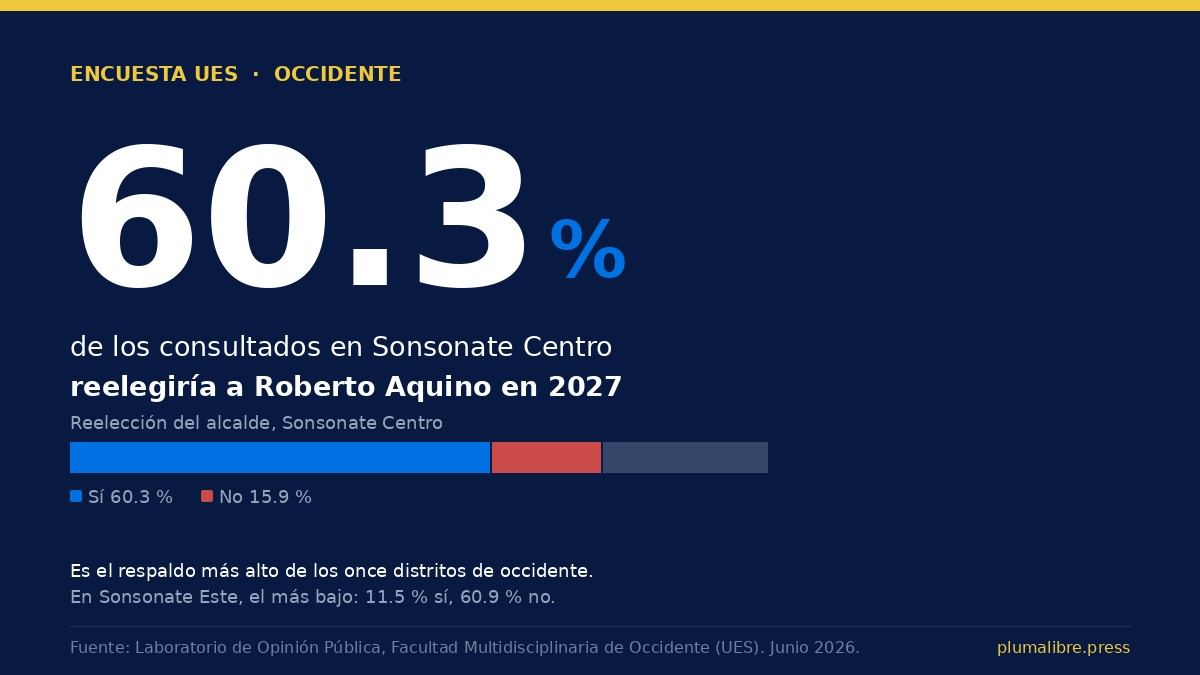
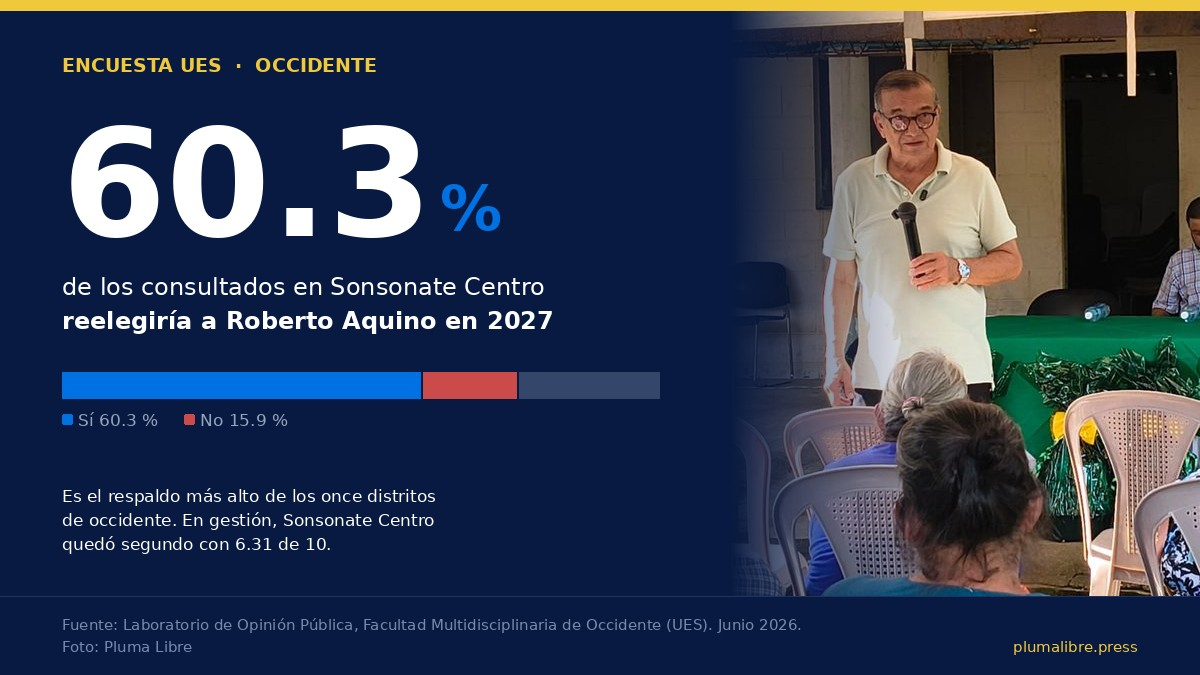
Encuesta UES: portada con foto del alcalde Aquino junto al dato de reeleccion

diff --git a/articulos/encuesta-ues-califica-alcaldes-occidente-junio-2026.html b/articulos/encuesta-ues-califica-alcaldes-occidente-junio-2026.html
@@ -1,4 +1,4 @@
-<!DOCTYPE html><html lang="es"><head><meta charset="UTF-8"><meta name="viewport" content="width=device-width,initial-scale=1.0"><title>6 de cada 10 en Sonsonate Centro reelegirían a Aquino, según la UES — Pluma Libre</title><meta name="description" content="La Universidad de El Salvador midió a los once alcaldes de occidente. Sonsonate Centro salió segundo en gestión con 6.31 y primero en respaldo a la reelección. Los otros tres distritos sonsonatecos quedaron debajo del promedio regional."><meta name="theme-color" content="#081A41"><link rel="canonical" href="https://plumalibre.press/articulos/encuesta-ues-califica-alcaldes-occidente-junio-2026.html"><meta property="og:type" content="article"><meta property="og:title" content="6 de cada 10 en Sonsonate Centro reelegirían a Aquino, según la UES"><meta property="og:description" content="La Universidad de El Salvador midió a los once alcaldes de occidente. Sonsonate Centro salió segundo en gestión con 6.31 y primero en respaldo a la reelección. Los otros tres distritos sonsonatecos quedaron debajo del promedio regional."><meta property="og:image" content="https://plumalibre.press/assets/nota-encuesta-ues-reeleccion-sonsonate-centro.jpg"><meta property="og:site_name" content="Pluma Libre"><meta property="article:published_time" content="2026-08-03"><script type="application/ld+json">{"@context":"https://schema.org","@type":"NewsArticle","headline":"6 de cada 10 en Sonsonate Centro reelegirían a Aquino, según la UES","datePublished":"2026-08-03","author":{"@type":"Organization","name":"Pluma Libre"},"publisher":{"@type":"Organization","name":"Pluma Libre","logo":{"@type":"ImageObject","url":"https://plumalibre.press/assets/logo-simbolo.png"}}}</script><script>(function(){try{var p=new URLSearchParams(location.search);if(p.get("pl_no_track")==="1"){localStorage.setItem("pl_no_track","1");history.replaceState({},"",location.pathname+location.hash);}if(p.get("pl_track")==="1"){localStorage.removeItem("pl_no_track");history.replaceState({},"",location.pathname+location.hash);}if(localStorage.getItem("pl_no_track")==="1"){window["ga-disable-G-TZRTJLP5KT"]=true;}}catch(e){}})();</script><script async src="https://www.googletagmanager.com/gtag/js?id=G-TZRTJLP5KT"></script><script>window.dataLayer=window.dataLayer||[];function gtag(){dataLayer.push(arguments);}gtag("js",new Date());gtag("config","G-TZRTJLP5KT");</script><link rel="icon" href="../assets/favicon.ico" sizes="any"><link rel="icon" type="image/png" sizes="32x32" href="../assets/favicon-32x32.png"><link rel="icon" type="image/png" sizes="192x192" href="../assets/favicon-192x192.png"><link rel="apple-touch-icon" href="../assets/apple-touch-icon.png"><link rel="alternate" type="application/rss+xml" title="Pluma Libre" href="/rss.xml"><link rel="manifest" href="/manifest.webmanifest"><meta name="apple-mobile-web-app-capable" content="yes"><meta name="apple-mobile-web-app-status-bar-style" content="black-translucent"><meta name="apple-mobile-web-app-title" content="Pluma Libre"><meta name="mobile-web-app-capable" content="yes"><link rel="preconnect" href="https://fonts.googleapis.com"><link rel="preconnect" href="https://fonts.gstatic.com" crossorigin><link href="https://fonts.googleapis.com/css2?family=Newsreader:opsz,wght@6..72,400;6..72,600;6..72,700&family=Outfit:wght@400;500;600;700&display=swap" rel="stylesheet"><link rel="stylesheet" href="../style.css"></head><body class="article-page"><div class="top-bar"><div class="wrap"><span id="fecha"></span><a href="https://www.facebook.com/plumalibre.press/" target="_blank" rel="noopener" aria-label="Facebook"><svg width="14" height="14" fill="currentColor" viewBox="0 0 24 24"><path d="M24 12.073c0-6.627-5.373-12-12-12s-12 5.373-12 12c0 5.99 4.388 10.954 10.125 11.854v-8.385H7.078v-3.47h3.047V9.43c0-3.007 1.792-4.669 4.533-4.669 1.312 0 2.686.235 2.686.235v2.953H15.83c-1.491 0-1.956.925-1.956 1.874v2.25h3.328l-.532 3.47h-2.796v8.385C19.612 23.027 24 18.062 24 12.073z"/></svg></a></div></div><header class="header"><div class="wrap"><a href="../index.html" class="logo"><img src="../assets/logo-simbolo.png" alt="Pluma Libre" class="logo-simbolo" width="40" height="40"><div class="logo-text"><h1><img src="../assets/logo-wordmark.png" alt="PLUMA LIBRE" class="logo-wordmark"></h1></div></a><button class="menu-btn" id="menuBtn" aria-label="Menú"><span></span><span></span><span></span></button><nav class="nav" id="nav"><ul><li><a href="../index.html">Inicio</a></li><li><a href="../secciones/politico.html">Política</a></li><li><a href="../secciones/economico.html">Economía</a></li><li><a href="../secciones/deportivo.html">Deportes</a></li><li><a href="../secciones/social.html">Social</a></li><li><a href="../secciones/religioso.html">Religión</a></li><li><a href="../secciones/cultural.html">Cultura</a></li><li><a href="../secciones/internacional.html">Internacional</a></li><li><a href="../secciones/opinion.html">Opinión</a></li><li><a href="../secciones/tecnologico.html">Tecnología</a></li><li><a href="../secciones/entrevistas.html">Entrevistas</a></li><li><a href="../sobre-nosotros.html">Nosotros</a></li></ul></nav></div></header><main><div class="wrap"><div class="article-header"><span class="badge badge-brand">Política</span><h1>6 de cada 10 en Sonsonate Centro reelegirían a Aquino, según la UES</h1><p class="subtitle">La Universidad de El Salvador midió a los once alcaldes de occidente. Sonsonate Centro salió segundo en gestión con 6.31 y primero en respaldo a la reelección. Los otros tres distritos sonsonatecos quedaron debajo del promedio regional.</p><div class="article-meta"><strong>Por Pluma Libre</strong> · 3 de agosto, 2026 · Sonsonate</div></div><figure class="article-img"><img src="../assets/nota-encuesta-ues-reeleccion-sonsonate-centro.jpg" alt="Placa con el dato de 60.3 por ciento de respaldo a la reelección del alcalde de Sonsonate Centro" loading="eager"><figcaption>El 60.3 % de los consultados en Sonsonate Centro reelegiría a Roberto Aquino: el respaldo más alto de los once distritos de occidente. Gráfico: Pluma Libre con datos de la UES.</figcaption></figure><div class="article-body"><p>Seis de cada diez personas consultadas en <strong>Sonsonate Centro</strong> volverían a votar por su alcalde. Es el respaldo más alto de los once distritos de la región occidental y sale de la encuesta que la <strong>Universidad de El Salvador</strong> levantó en junio de este año.</p>
+<!DOCTYPE html><html lang="es"><head><meta charset="UTF-8"><meta name="viewport" content="width=device-width,initial-scale=1.0"><title>6 de cada 10 en Sonsonate Centro reelegirían a Aquino, según la UES — Pluma Libre</title><meta name="description" content="La Universidad de El Salvador midió a los once alcaldes de occidente. Sonsonate Centro salió segundo en gestión con 6.31 y primero en respaldo a la reelección. Los otros tres distritos sonsonatecos quedaron debajo del promedio regional."><meta name="theme-color" content="#081A41"><link rel="canonical" href="https://plumalibre.press/articulos/encuesta-ues-califica-alcaldes-occidente-junio-2026.html"><meta property="og:type" content="article"><meta property="og:title" content="6 de cada 10 en Sonsonate Centro reelegirían a Aquino, según la UES"><meta property="og:description" content="La Universidad de El Salvador midió a los once alcaldes de occidente. Sonsonate Centro salió segundo en gestión con 6.31 y primero en respaldo a la reelección. Los otros tres distritos sonsonatecos quedaron debajo del promedio regional."><meta property="og:image" content="https://plumalibre.press/assets/nota-encuesta-ues-reeleccion-sonsonate-centro.jpg"><meta property="og:site_name" content="Pluma Libre"><meta property="article:published_time" content="2026-08-03"><script type="application/ld+json">{"@context":"https://schema.org","@type":"NewsArticle","headline":"6 de cada 10 en Sonsonate Centro reelegirían a Aquino, según la UES","datePublished":"2026-08-03","author":{"@type":"Organization","name":"Pluma Libre"},"publisher":{"@type":"Organization","name":"Pluma Libre","logo":{"@type":"ImageObject","url":"https://plumalibre.press/assets/logo-simbolo.png"}}}</script><script>(function(){try{var p=new URLSearchParams(location.search);if(p.get("pl_no_track")==="1"){localStorage.setItem("pl_no_track","1");history.replaceState({},"",location.pathname+location.hash);}if(p.get("pl_track")==="1"){localStorage.removeItem("pl_no_track");history.replaceState({},"",location.pathname+location.hash);}if(localStorage.getItem("pl_no_track")==="1"){window["ga-disable-G-TZRTJLP5KT"]=true;}}catch(e){}})();</script><script async src="https://www.googletagmanager.com/gtag/js?id=G-TZRTJLP5KT"></script><script>window.dataLayer=window.dataLayer||[];function gtag(){dataLayer.push(arguments);}gtag("js",new Date());gtag("config","G-TZRTJLP5KT");</script><link rel="icon" href="../assets/favicon.ico" sizes="any"><link rel="icon" type="image/png" sizes="32x32" href="../assets/favicon-32x32.png"><link rel="icon" type="image/png" sizes="192x192" href="../assets/favicon-192x192.png"><link rel="apple-touch-icon" href="../assets/apple-touch-icon.png"><link rel="alternate" type="application/rss+xml" title="Pluma Libre" href="/rss.xml"><link rel="manifest" href="/manifest.webmanifest"><meta name="apple-mobile-web-app-capable" content="yes"><meta name="apple-mobile-web-app-status-bar-style" content="black-translucent"><meta name="apple-mobile-web-app-title" content="Pluma Libre"><meta name="mobile-web-app-capable" content="yes"><link rel="preconnect" href="https://fonts.googleapis.com"><link rel="preconnect" href="https://fonts.gstatic.com" crossorigin><link href="https://fonts.googleapis.com/css2?family=Newsreader:opsz,wght@6..72,400;6..72,600;6..72,700&family=Outfit:wght@400;500;600;700&display=swap" rel="stylesheet"><link rel="stylesheet" href="../style.css"></head><body class="article-page"><div class="top-bar"><div class="wrap"><span id="fecha"></span><a href="https://www.facebook.com/plumalibre.press/" target="_blank" rel="noopener" aria-label="Facebook"><svg width="14" height="14" fill="currentColor" viewBox="0 0 24 24"><path d="M24 12.073c0-6.627-5.373-12-12-12s-12 5.373-12 12c0 5.99 4.388 10.954 10.125 11.854v-8.385H7.078v-3.47h3.047V9.43c0-3.007 1.792-4.669 4.533-4.669 1.312 0 2.686.235 2.686.235v2.953H15.83c-1.491 0-1.956.925-1.956 1.874v2.25h3.328l-.532 3.47h-2.796v8.385C19.612 23.027 24 18.062 24 12.073z"/></svg></a></div></div><header class="header"><div class="wrap"><a href="../index.html" class="logo"><img src="../assets/logo-simbolo.png" alt="Pluma Libre" class="logo-simbolo" width="40" height="40"><div class="logo-text"><h1><img src="../assets/logo-wordmark.png" alt="PLUMA LIBRE" class="logo-wordmark"></h1></div></a><button class="menu-btn" id="menuBtn" aria-label="Menú"><span></span><span></span><span></span></button><nav class="nav" id="nav"><ul><li><a href="../index.html">Inicio</a></li><li><a href="../secciones/politico.html">Política</a></li><li><a href="../secciones/economico.html">Economía</a></li><li><a href="../secciones/deportivo.html">Deportes</a></li><li><a href="../secciones/social.html">Social</a></li><li><a href="../secciones/religioso.html">Religión</a></li><li><a href="../secciones/cultural.html">Cultura</a></li><li><a href="../secciones/internacional.html">Internacional</a></li><li><a href="../secciones/opinion.html">Opinión</a></li><li><a href="../secciones/tecnologico.html">Tecnología</a></li><li><a href="../secciones/entrevistas.html">Entrevistas</a></li><li><a href="../sobre-nosotros.html">Nosotros</a></li></ul></nav></div></header><main><div class="wrap"><div class="article-header"><span class="badge badge-brand">Política</span><h1>6 de cada 10 en Sonsonate Centro reelegirían a Aquino, según la UES</h1><p class="subtitle">La Universidad de El Salvador midió a los once alcaldes de occidente. Sonsonate Centro salió segundo en gestión con 6.31 y primero en respaldo a la reelección. Los otros tres distritos sonsonatecos quedaron debajo del promedio regional.</p><div class="article-meta"><strong>Por Pluma Libre</strong> · 3 de agosto, 2026 · Sonsonate</div></div><figure class="article-img"><img src="../assets/nota-encuesta-ues-reeleccion-sonsonate-centro.jpg" alt="El alcalde de Sonsonate Centro, Roberto Aquino, junto al dato de la encuesta: 60.3 por ciento de respaldo a su reelección" loading="eager"><figcaption>El 60.3 % de los consultados en Sonsonate Centro reelegiría a Roberto Aquino: el respaldo más alto de los once distritos de occidente. El alcalde, en una asamblea en el cantón El Almendro. <strong>Foto de archivo: Pluma Libre.</strong> Gráfico: Pluma Libre con datos de la UES.</figcaption></figure><div class="article-body"><p>Seis de cada diez personas consultadas en <strong>Sonsonate Centro</strong> volverían a votar por su alcalde. Es el respaldo más alto de los once distritos de la región occidental y sale de la encuesta que la <strong>Universidad de El Salvador</strong> levantó en junio de este año.</p>
 
 <p>El dato exacto es <strong>60.3 % a favor de reelegir a Roberto Aquino</strong> para el período 2027-2030, contra un 15.9 % que no lo haría. Ningún otro distrito de Santa Ana, Ahuachapán o Sonsonate llega a esa cifra: el segundo más cercano, Santa Ana Centro, ronda el 52 %.</p>
 
